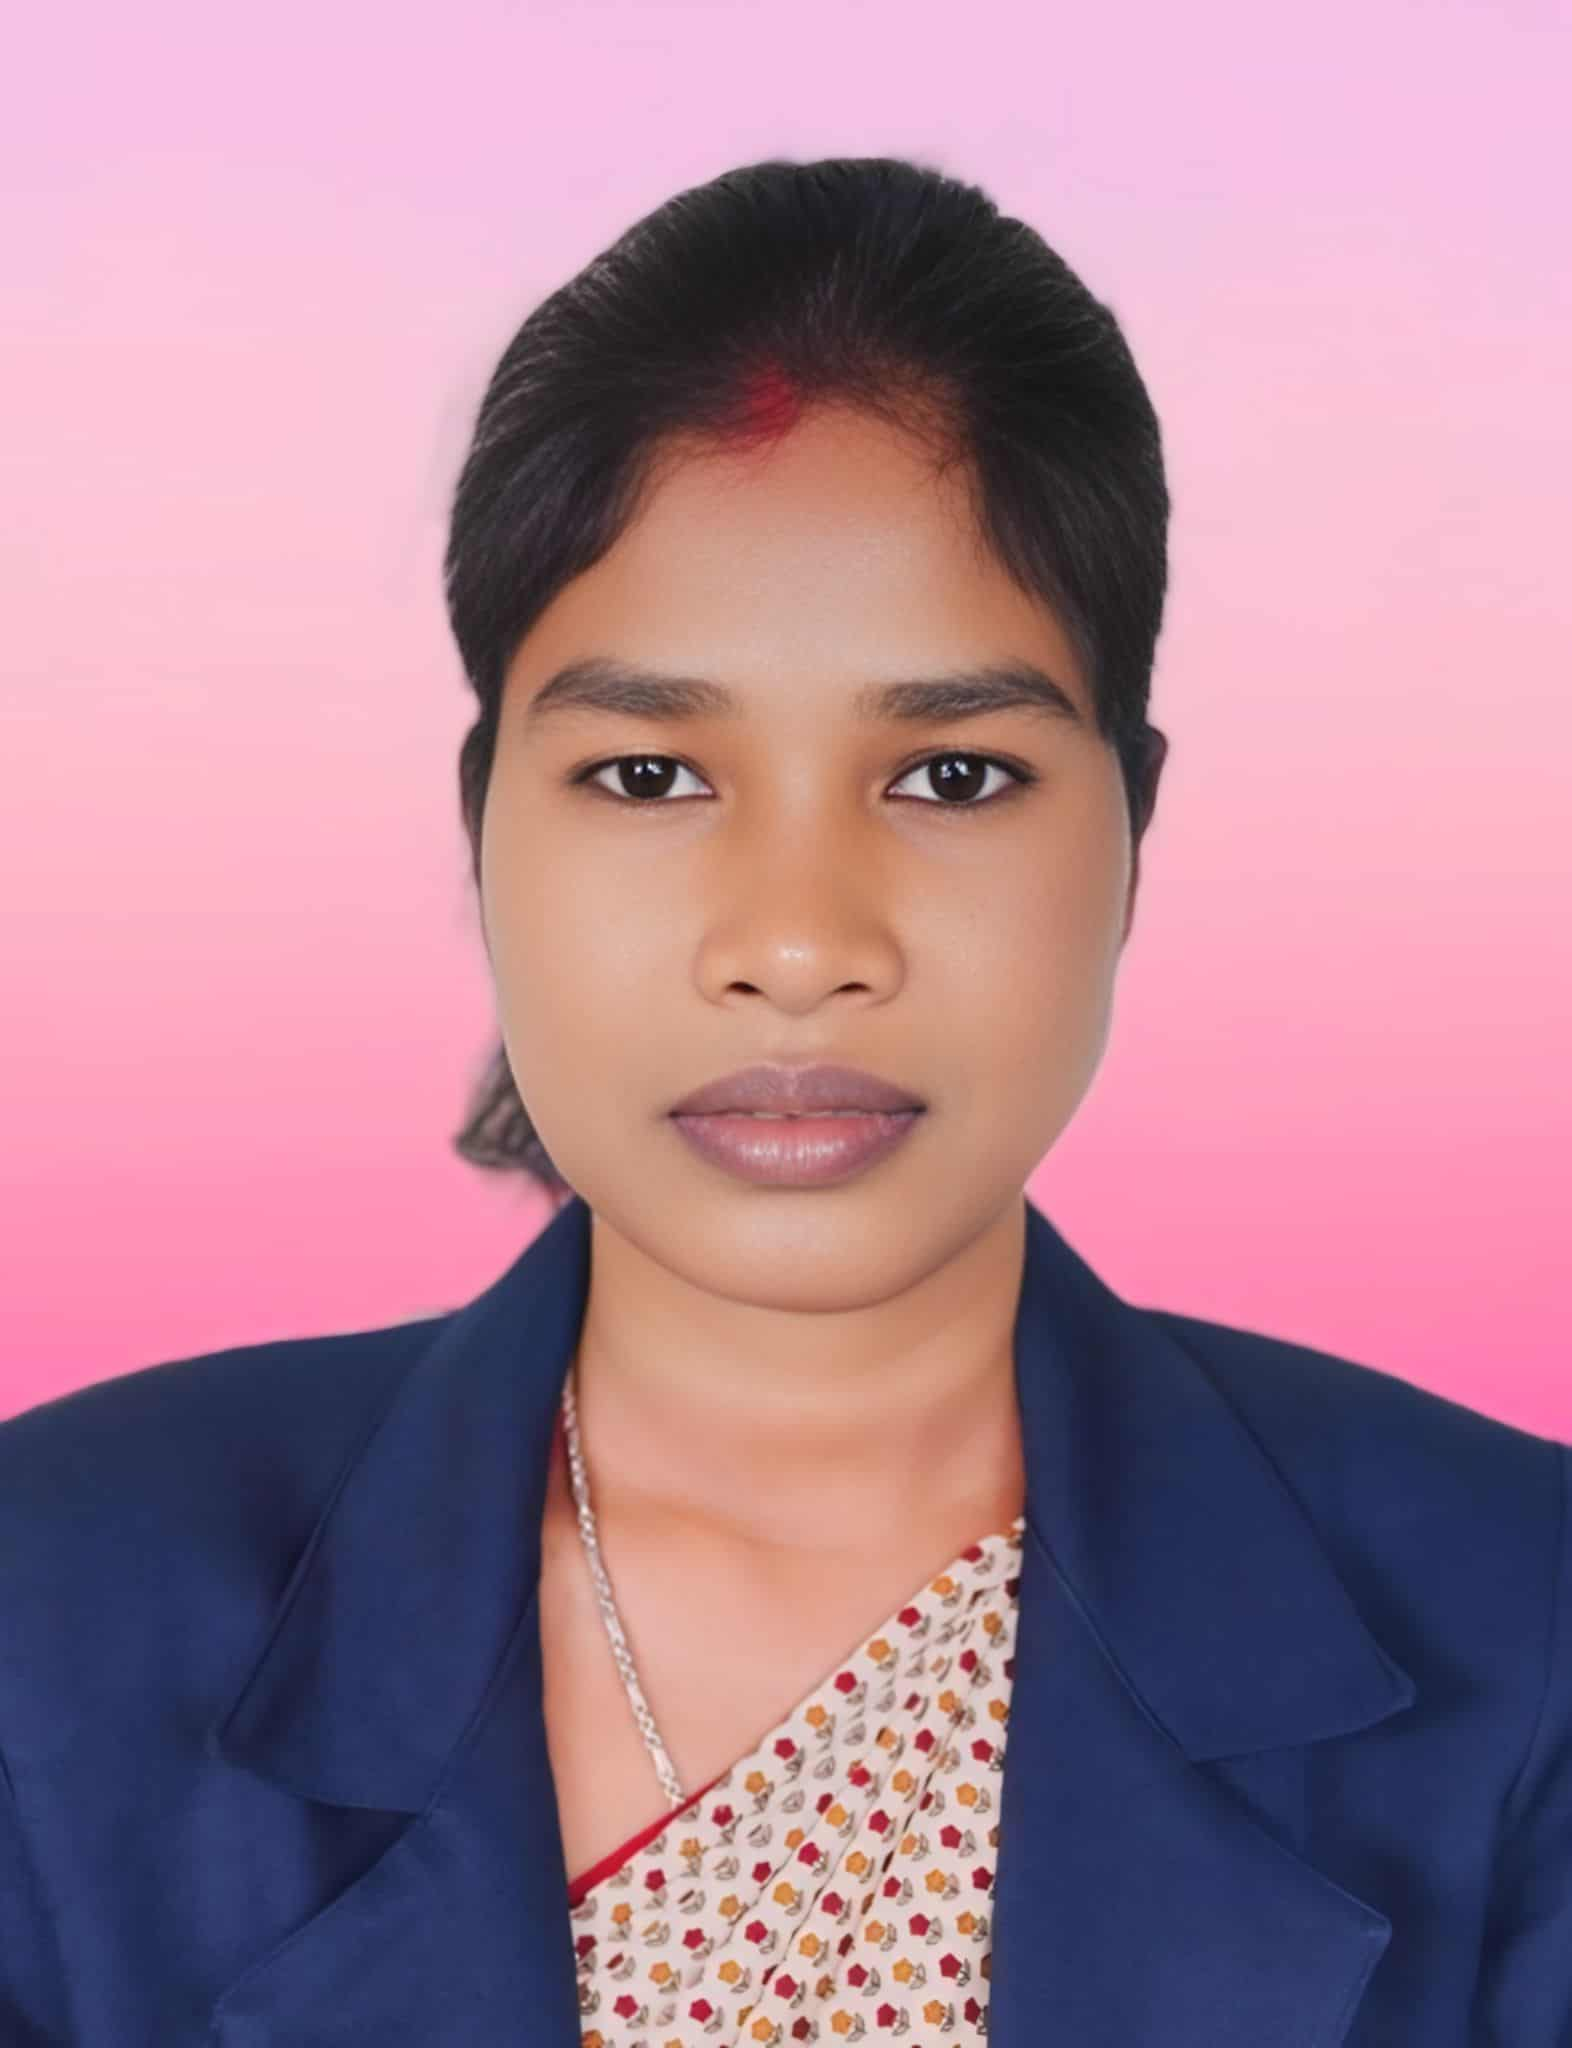
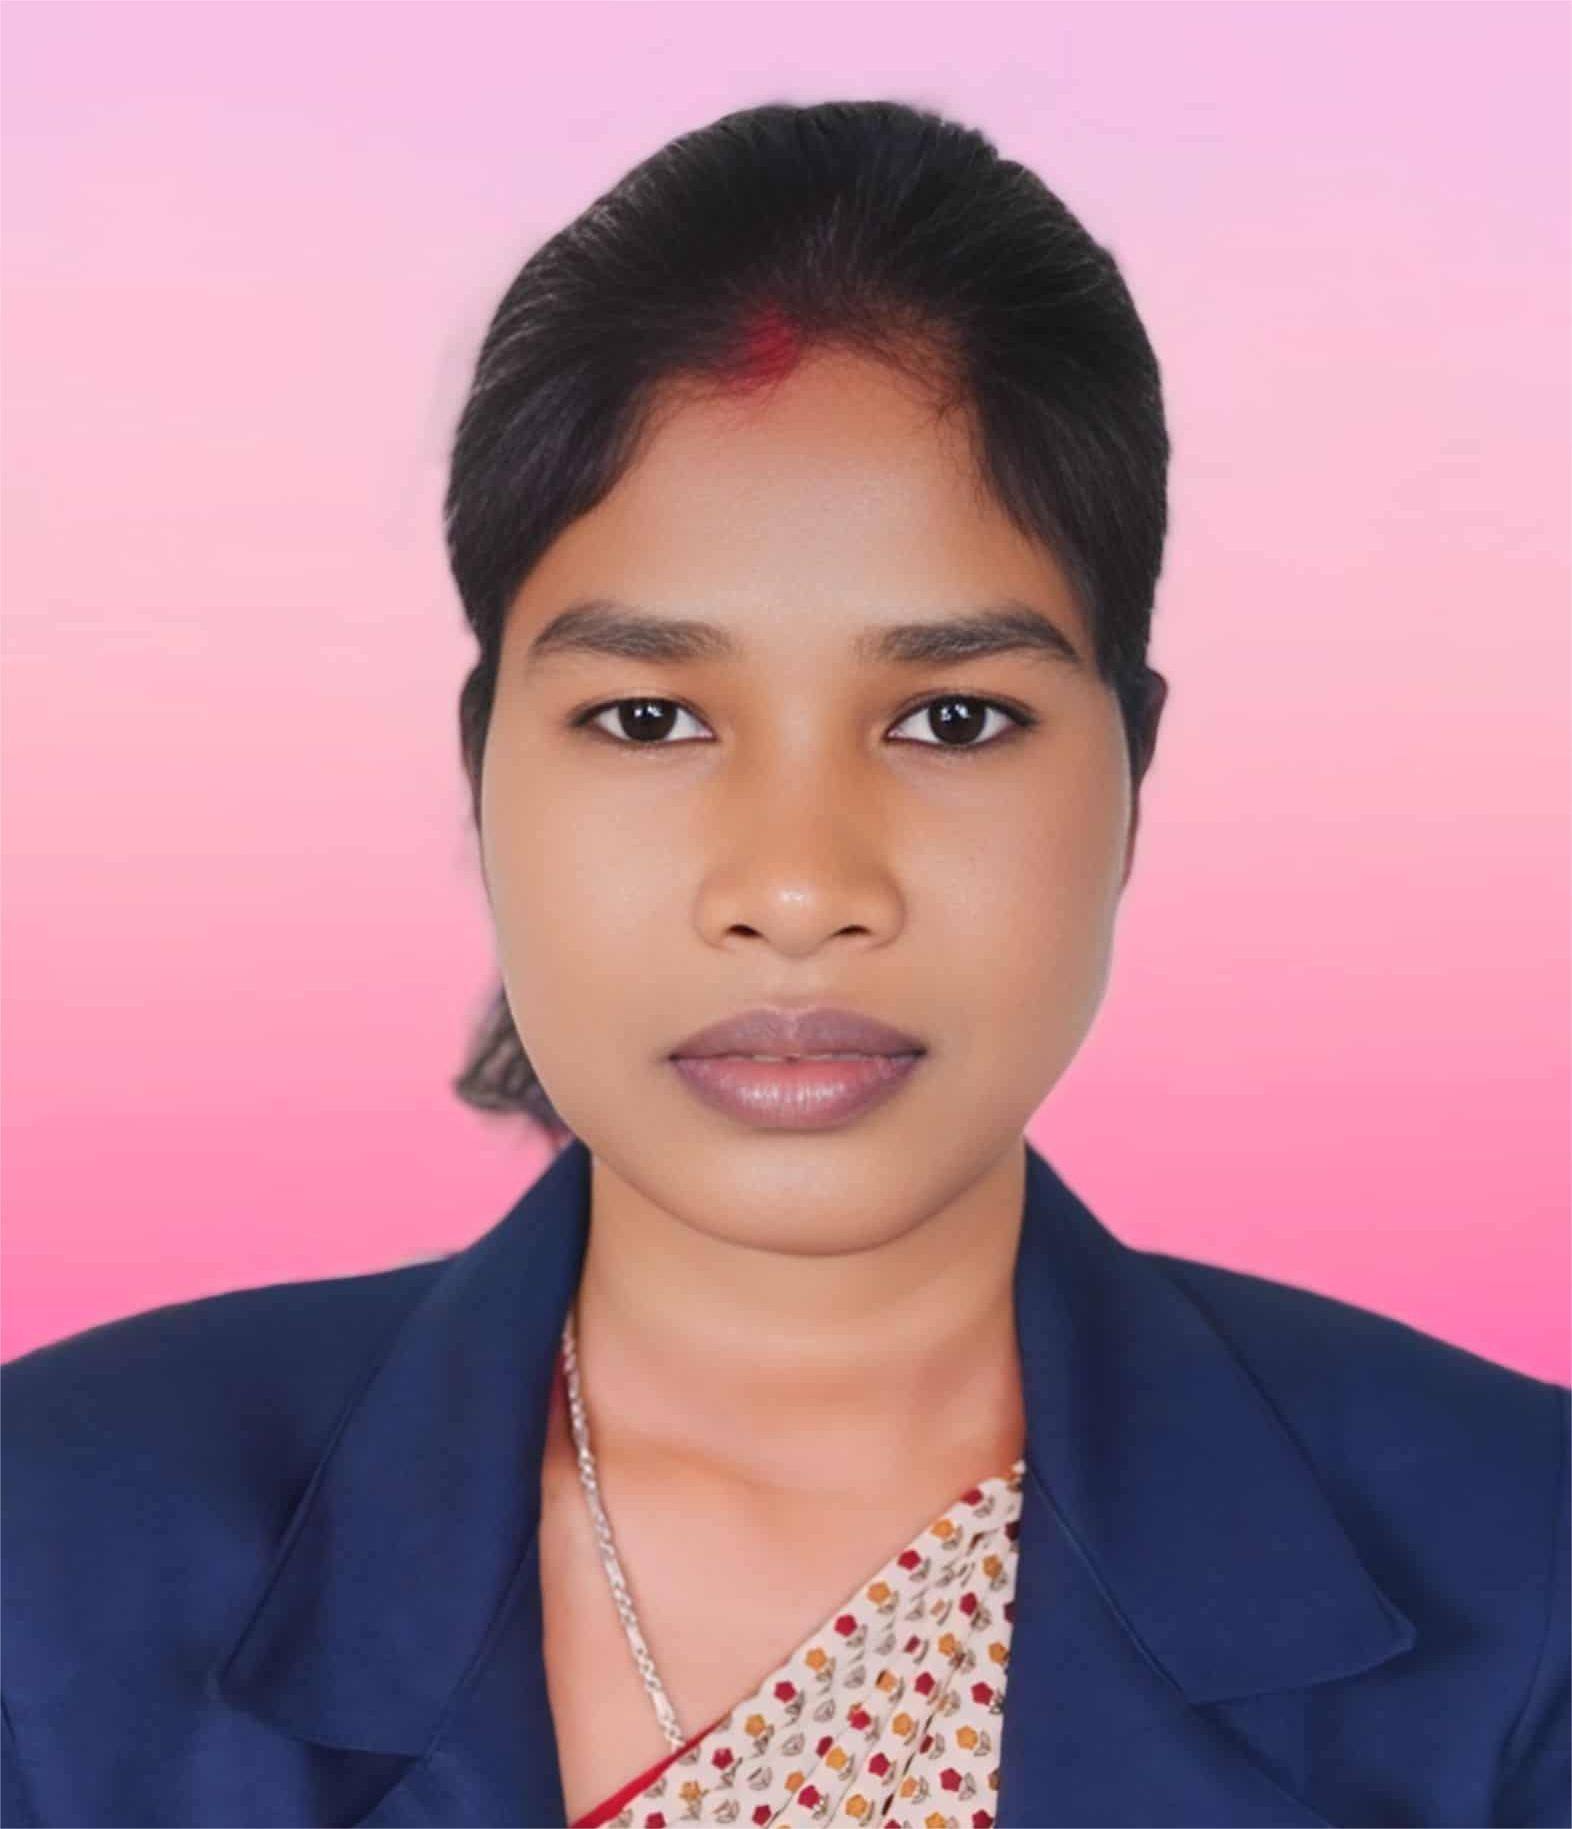
teachers stying completed

diff --git a/up/index.html b/up/index.html
@@ -217,7 +217,7 @@
         </div>
       </section>
       <!-------- ABOUT US ------->
-      <section class="about sec-flex padd">
+      <section class="about padd">
         <div class="about__content padd">
           <h2 class="sec-title">About Us</h2>
           <h3 class="about__content-subtitle sec-para">Who We Are</h3>
@@ -313,41 +313,135 @@
 
             <div class="gallery__card--info">
               <h3>Evints</h3>
-              <p class="sec-sub-title">Celebrating the festive season with joy and unity.</p>
+              <p class="sec-sub-title">
+                Celebrating the festive season with joy and unity.
+              </p>
               <a href="#"><i class="fa-solid fa-arrow-up"></i></a>
             </div>
           </div>
           <div class="gallery__card">
             <figure>
-              <img src="/up/images/festiveSeason.jpg" alt="" />
+              <img src="/up/images/teachersday.jpg" alt="" />
             </figure>
 
             <div class="gallery__card--info">
               <h3>Evints</h3>
-              <p class="sec-sub-title">Celebrating the festive season with joy and unity.</p>
+              <p class="sec-sub-title">
+                Celebrating the festive season with joy and unity.
+              </p>
               <a href="#"><i class="fa-solid fa-arrow-up"></i></a>
             </div>
           </div>
           <div class="gallery__card">
             <figure>
-              <img src="/up/images/festiveSeason.jpg" alt="" />
+              <img src="/up/images/sports2.jpg" alt="" />
             </figure>
 
             <div class="gallery__card--info">
-              <h3>Evints</h3>
-              <p class="sec-sub-title">Celebrating the festive season with joy and unity.</p>
+              <h3>Sports</h3>
+              <p class="sec-sub-title">
+                Celebrating the festive season with joy and unity.
+              </p>
               <a href="#"><i class="fa-solid fa-arrow-up"></i></a>
             </div>
           </div>
+        </div>
+      </section>
 
+      <section class="news padd sec-flex">
+        <h2 class="sec-title">Recent News</h2>
+        <div class="news__cards responsive-grid-b">
+          <div class="news__card">
+            <figure>
+              <img src="/up/images/foundation_day.jpg" alt="" />
+            </figure>
+
+            <div class="news__card--info">
+              <h3 class="sec-title">Foundation day celebrated</h3>
+              <p class="sec-para">November 14, 2024</p>
+              <a href="#" class="sec-link">Learn More</a>
+            </div>
+          </div>
+          <div class="news__card">
+            <figure>
+              <img src="/up/images/voter_awareness.jpg" alt="" />
+            </figure>
+
+            <div class="news__card--info">
+              <h3 class="sec-title">Voter Awareness Program</h3>
+              <p class="sec-para">November 14, 2024</p>
+              <a href="#" class="sec-link">Learn More</a>
+            </div>
+          </div>
+          <div class="news__card">
+            <figure>
+              <img src="/up/images/sports.jpg" alt="" />
+            </figure>
+
+            <div class="news__card--info">
+              <h3 class="sec-title">New Event 3</h3>
+              <p class="sec-para">November 14, 2024</p>
+              <a href="#" class="sec-link">Learn More</a>
+            </div>
+          </div>
+          <div class="news__card">
+            <figure>
+              <img src="/up/images/rangoli.jpg" alt="" />
+            </figure>
+
+            <div class="news__card--info">
+              <h3 class="sec-title">New Event 4</h3>
+              <p class="sec-para">November 14, 2024</p>
+              <a href="#" class="sec-link">Learn More</a>
+            </div>
+          </div>
+        </div>
+      </section>
+
+      <section class="teachers sec-flex padd">
+        <h2 class="sec-title">Our Awesome Teachers</h2>
+
+        <div class="teachers__profile responsive-grid">
+  
+          <div class="teachers__profile--info">
+            <figure>
+              <img src="/up/images/mrs Lukhi.jpg" alt="" />
+            </figure>
+            <div>
+              <p class="sec-sub-title">Mrs. Lukhi</p>
+              <p class="sec-sub-para">Biology, Science</p>
+            </div>
+          </div>
+          <div class="teachers__profile--info">
+            <figure>
+              <img src="/up/images/Joseph.jpg" alt="" />
+            </figure>
+            <div>
+              <p class="sec-sub-title">Mr. Joseph</p>
+              <p class="sec-sub-para">Math.Table.Eng Grammar</p>
+            </div>
+          </div>
+          <div class="teachers__profile--info">
+            <figure>
+              <img src="/up/images/mrsSheela.jpg" alt="" />
+            </figure>
+            <div>
+              <p class="sec-sub-title">Mrs. Sheela</p>
+              <p class="sec-sub-para">SST, History</p>
+            </div>
+          </div>
+          <div class="teachers__profile--info">
+            <figure>
+              <img src="/up/images/mrsPaulina.jpg" alt="" />
+            </figure>
+            <div>
+              <p class="sec-sub-title">Mrs.Paulina</p>
+              <p class="sec-sub-para">Hindi, Hind Cursive</p>
+            </div>
+          </div>
 
         </div>
       </section>
-<!-- 
-      <section class="News padd">
-        <h2 class="sec-title">Recent News</h2>
-
-      </section> -->
     </main>
     <script src="js/app.js"></script>
     <script src="https://unpkg.com/swiper/swiper-bundle.min.js"></script>

diff --git a/up/css/main-style.css b/up/css/main-style.css
@@ -428,6 +428,8 @@ textarea {
 }
 
 .about {
+  display: flex;
+  gap: 2rem;
   background: var(--gradient-cyan);
 }
 .about__content {
@@ -519,13 +521,16 @@ textarea {
   padding: calc(1rem + 2vw);
   background-color: var(--color-white);
   border-radius: 15px;
+  box-shadow: 0 4px 6px rgba(0, 0, 0, 0.1);
+  border: 2px solid transparent;
 }
 .gallery__card:hover {
   transition: all 0.43s ease-in-out;
-  border: 2px solid var(--color-blue-dark);
+  border: 3px solid var(--color-blue-dark);
 }
 .gallery__card figure {
   width: 100%;
+  height: 40%;
 }
 .gallery__card figure img {
   width: 100%;
@@ -534,7 +539,7 @@ textarea {
 .gallery__card--info {
   display: flex;
   flex-direction: column;
-  gap: 1rem;
+  gap: 2rem;
 }
 .gallery__card--info h3 {
   padding: 2px 9px;
@@ -555,6 +560,65 @@ textarea {
 .gallery__card--info a:hover {
   background-color: var(--color-blue-dark);
   color: var(--color-white);
+}
+
+.news .news__card {
+  display: flex;
+  gap: 1rem;
+  width: 100%;
+  gap: 2rem;
+}
+.news .news__card figure {
+  width: 40%;
+}
+.news .news__card figure img {
+  border-radius: 9px;
+  width: 100%;
+  height: 100%;
+  -o-object-position: center;
+     object-position: center;
+  -o-object-fit: cover;
+     object-fit: cover;
+}
+.news .news__card--info {
+  justify-content: center;
+  display: flex;
+  flex-direction: column;
+  gap: 1rem;
+}
+.news .news__card--info h3 {
+  text-align: start;
+  color: var(--color-navy-dark);
+}
+.news .news__card--info a {
+  align-self: start;
+}
+
+.teachers .teachers__profile--info {
+  display: flex;
+  flex-direction: column;
+  gap: 1rem;
+  padding: 1.5rem;
+  box-shadow: 0 4px 6px rgba(0, 0, 0, 0.1);
+  align-items: center;
+}
+.teachers .teachers__profile--info > div {
+  display: flex;
+  flex-direction: column;
+  gap: 0.9rem;
+  align-items: center;
+}
+.teachers .teachers__profile--info figure {
+  width: 57%;
+  height: 55%;
+}
+.teachers .teachers__profile--info figure img {
+  width: 100%;
+  width: 100%;
+  -o-object-fit: cover;
+     object-fit: cover;
+  border-radius: 50%;
+  border: 6px solid var(--color-blue-bright);
 }
 
 @media screen and (max-width: 600px) {

diff --git a/sass/website-sections/_teachers.scss b/sass/website-sections/_teachers.scss
@@ -1,0 +1,38 @@
+@use "../general-styles/colors" as clrs;
+@use "../general-styles/padding" as pad;
+@use "../general-styles/typography" as type;
+
+
+.teachers {
+.teachers__profile {
+
+  &--info {
+    display: flex;
+    flex-direction: column;
+    gap: 1rem;
+    padding: pad.padding-st-v("m");
+     box-shadow: 0 4px 6px rgba(0, 0, 0, 0.1);
+    align-items: center;
+
+    >div {
+      display: flex;
+      flex-direction: column;
+      gap: 0.9rem;
+      align-items: center;
+    }
+    figure {
+      width: 57%;
+      height: 55%;
+      
+      img {
+        width: 100%;
+        width: 100%;
+        object-fit: cover;
+        border-radius: 50%;
+        border: 6px solid var(--color-blue-bright);
+      }
+    }
+  }
+}
+}
+

diff --git a/sass/website-sections/_recent-news.scss b/sass/website-sections/_recent-news.scss
@@ -1,0 +1,46 @@
+@use "../general-styles/colors" as clrs;
+@use "../general-styles/padding" as pad;
+@use "../general-styles/typography" as type;
+
+
+.news{
+
+
+  .news__card {
+    display: flex;
+    gap: 1rem;
+    width: 100%;
+    gap: 2rem;
+    
+    figure {
+      width: 40%;
+      
+      img {
+        border-radius: 9px;
+        width: 100%;
+        height: 100%;
+        object-position: center;
+        object-fit: cover;
+      }   
+    }
+    
+    &--info {
+      justify-content: center;
+      display: flex;
+      flex-direction: column;
+
+      gap: 1rem;
+
+      h3 {
+        text-align: start;
+        color: var(--color-navy-dark);
+      }
+
+      a {
+        align-self: start;
+      }
+    }
+  }
+  
+
+}

diff --git a/sass/website-sections/_gallery.scss b/sass/website-sections/_gallery.scss
@@ -9,16 +9,19 @@
     flex-direction: column;
     gap: 1rem;
     width: 90%;
+    // height: 90%;
     padding: pad.padding-d-h("s");
     background-color: var(--color-white);
     border-radius: 15px;
-    
+    box-shadow: 0 4px 6px rgba(0, 0, 0, 0.1);
+    border: 2px solid transparent;
     &:hover {
       transition: all 0.43s ease-in-out;
-      border: 2px solid var(--color-blue-dark);
+      border: 3px solid var(--color-blue-dark);
     }
     figure {
       width: 100%;
+      height: 40%;
       img {
         width: 100%;
         border-radius: 8px;
@@ -28,7 +31,7 @@
     &--info {
       display: flex;
       flex-direction: column;
-      gap: 1rem;
+      gap: 2rem;
 
       h3 {
         padding: 2px 9px;

diff --git a/sass/website-sections/_about.scss b/sass/website-sections/_about.scss
@@ -3,6 +3,8 @@
 @use "../general-styles/typography" as type;
 
 .about {
+  display: flex;
+  gap: 2rem;
   background:  var(--gradient-cyan);
 
   &__content {

diff --git a/sass/website-sections/_index.scss b/sass/website-sections/_index.scss
@@ -6,3 +6,5 @@
 @forward "about";
 @forward "academics";
 @forward "gallery";
+@forward "recent-news";
+@forward "teachers";
